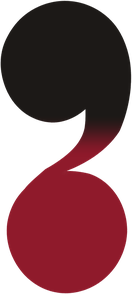
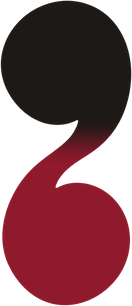
Homepage headline: David's redrawn comma/dot mark (matching head and dot)
Claude-Session: https://claude.ai/code/session_01NjxYhyh1dY3g84SUSD3Crs

diff --git a/src/pages/RPPHomeV3.tsx b/src/pages/RPPHomeV3.tsx
@@ -676,8 +676,8 @@ html body main#main-content div.rpp-door-hero p.rpp-door-slogan span.rpp-dm-l2.r
   margin-top: -0.19659em !important; white-space: nowrap;
 }
 html body main div.rpp-door-hero p.rpp-door-slogan img.rpp-dm-mark.rpp-dm-mark {
-  position: absolute !important; left: 2.022578em !important; top: 0.934922em !important;
-  width: 0.17em !important; height: 0.378438em !important; max-width: none !important; margin: 0 !important; padding: 0 !important;
+  position: absolute !important; left: 2.028203em !important; top: 0.946332em !important;
+  width: 0.160483em !important; height: 0.372492em !important; max-width: none !important; margin: 0 !important; padding: 0 !important;
   pointer-events: none;
 }
 /* While the door opens, a charcoal copy sits on top and fades out in step with "continued." */
@@ -935,8 +935,9 @@ const RPPHomeV3 = () => {
                   <span className="rpp-dm-sr">Life, continued.</span>
                   <span className="rpp-dm-l1" aria-hidden="true">Life</span>
                   <span className="rpp-dm-l2" aria-hidden="true"><span className="rpp-door-accent">cont{"\u0131"}nued.</span></span>
-                  <img className="rpp-dm-mark" src={sloganCommaDot} alt="" aria-hidden="true" width={132} height={294} />
-                  <img className="rpp-dm-mark rpp-dm-mark-dark" src={sloganCommaDotDark} alt="" aria-hidden="true" width={132} height={294} />
+                  {/* Nov 21, 2026: David's redrawn mark, head and dot identical; dot kept the same size and position. */}
+                  <img className="rpp-dm-mark" src={sloganCommaDot} alt="" aria-hidden="true" width={132} height={306} />
+                  <img className="rpp-dm-mark rpp-dm-mark-dark" src={sloganCommaDotDark} alt="" aria-hidden="true" width={132} height={306} />
                 </>
               ) : (
                 <><span className="rpp-door-start">{t("hero.sloganStart")}</span> <span className="rpp-door-accent">{t("hero.sloganAccent")}</span>{t("hero.sloganAccent2") ? ` ${t("hero.sloganAccent2")}` : ""}</>
